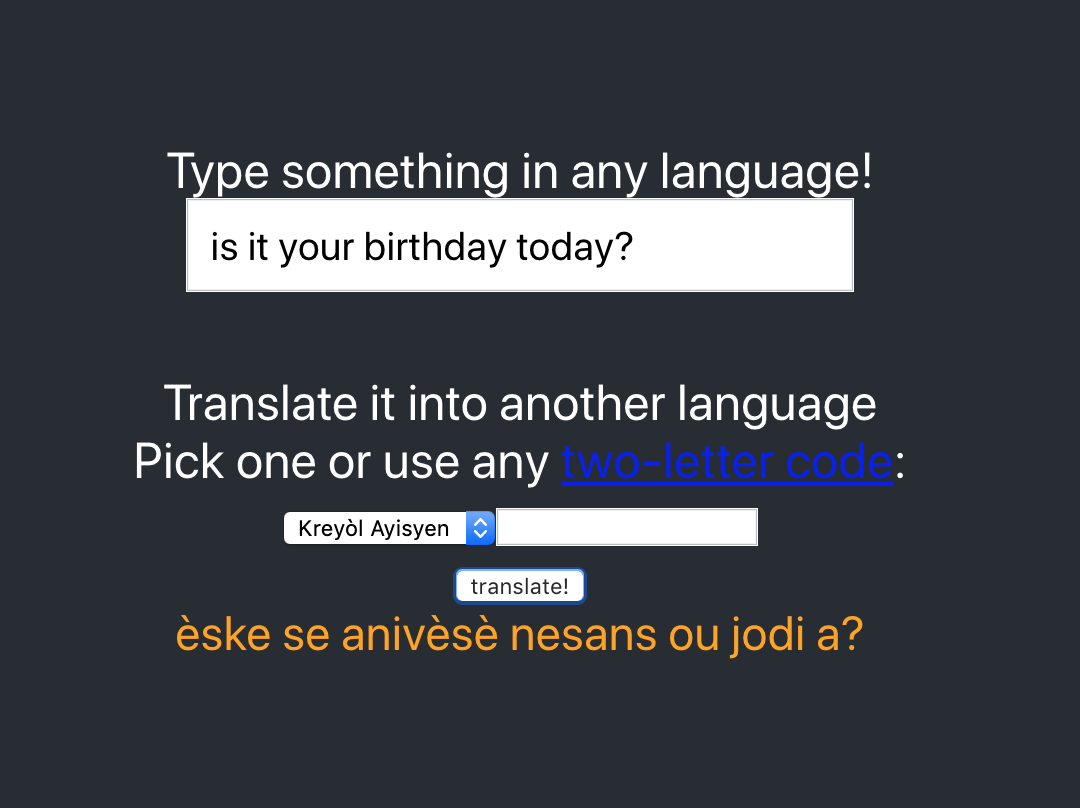
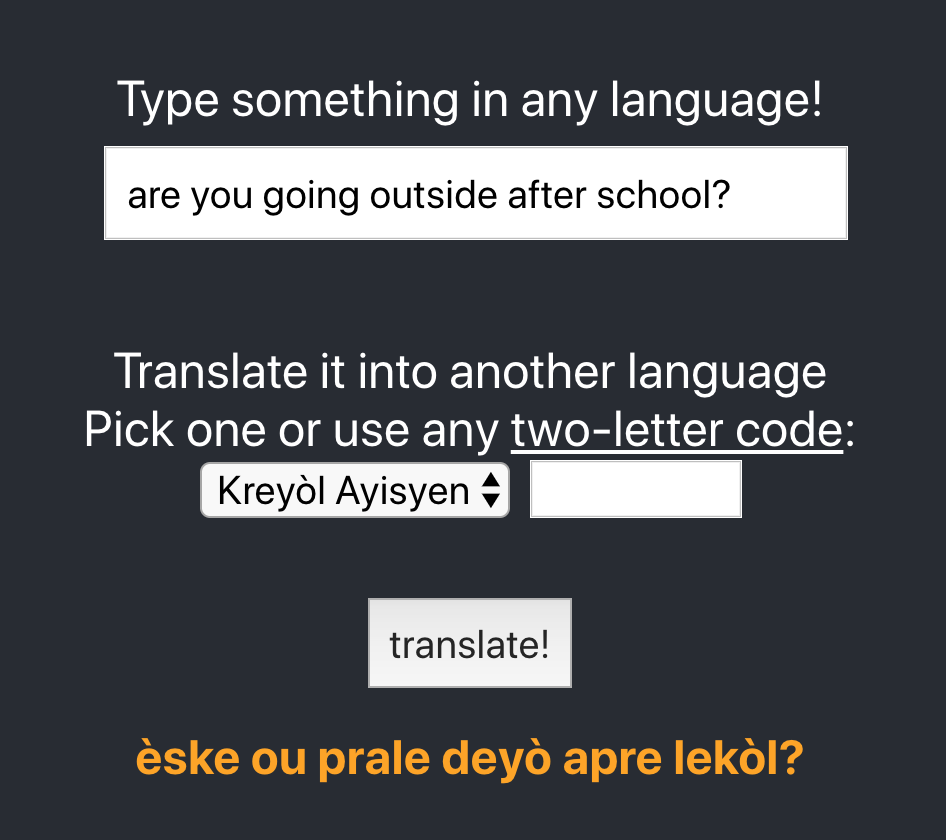
Update image too for translation experiment

Changed region(s): [[0.092, 0.4022, 0.889, 0.8354], [0.092, 0.0928, 0.9197, 0.3713], [0.1226, 0.8663, 0.8584, 0.9282]]

diff --git a/src/translate/Translate.js b/src/translate/Translate.js
@@ -117,8 +117,11 @@ export default class Translate extends Component {
             value={code}
           />
         </div>
-        <button onClick={this.onTranslate}>translate!</button>
-        {json && this.renderJson(json)}
+        <button
+          className="Translate-button"
+          disabled={query === ''}
+          onClick={this.onTranslate}>translate!</button>
+        {this.renderJson(json)}
         {error && <div>error: {JSON.stringify(error, null, 2)}</div>}
       </div>
     );
@@ -127,7 +130,7 @@ export default class Translate extends Component {
   renderJson(json) {
     return (
       <div className="Translate-translated">
-        {json.data.translations[0].translatedText}
+        {json && json.data.translations[0].translatedText}
       </div>
     );
   }

diff --git a/src/translate/Translate.css b/src/translate/Translate.css
@@ -13,19 +13,41 @@
   color: white;
 }
 
-
 .Translate-text {
   margin-bottom: 40px;
 }
 
 .Translate-text-input {
+  margin: 10px;
   font-size: 20px;
   padding: 10px;
-  width: 80%;
+  width: 90%;
 }
-
 
 .Translate-translated {
   color: orange;
   font-size: 24px;
+  height: 200px;
+  margin-top: 20px;
+  font-weight: bold;
+}
+
+.Translate-language select {
+  font-size: 20px;
+}
+.Translate-language input {
+  font-size: 20px;
+  margin-left: 10px;
+  width: 100px;
+}
+
+.Translate-language a {
+  color: white;
+}
+
+.Translate-button {
+  margin-top: 40px;
+  padding: 10px;
+  font-size: 20px;
+  cursor: pointer;
 }
